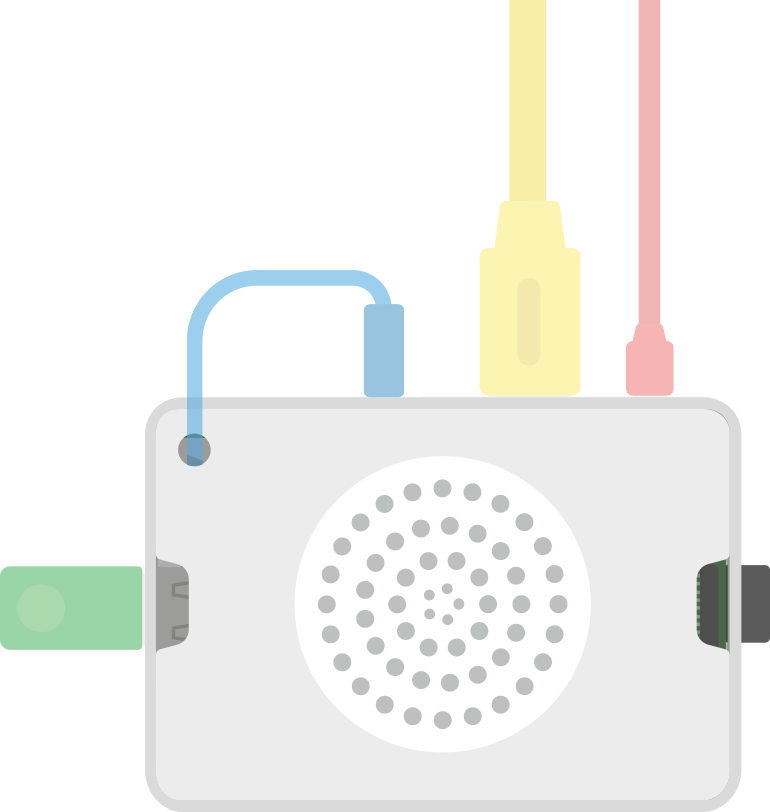
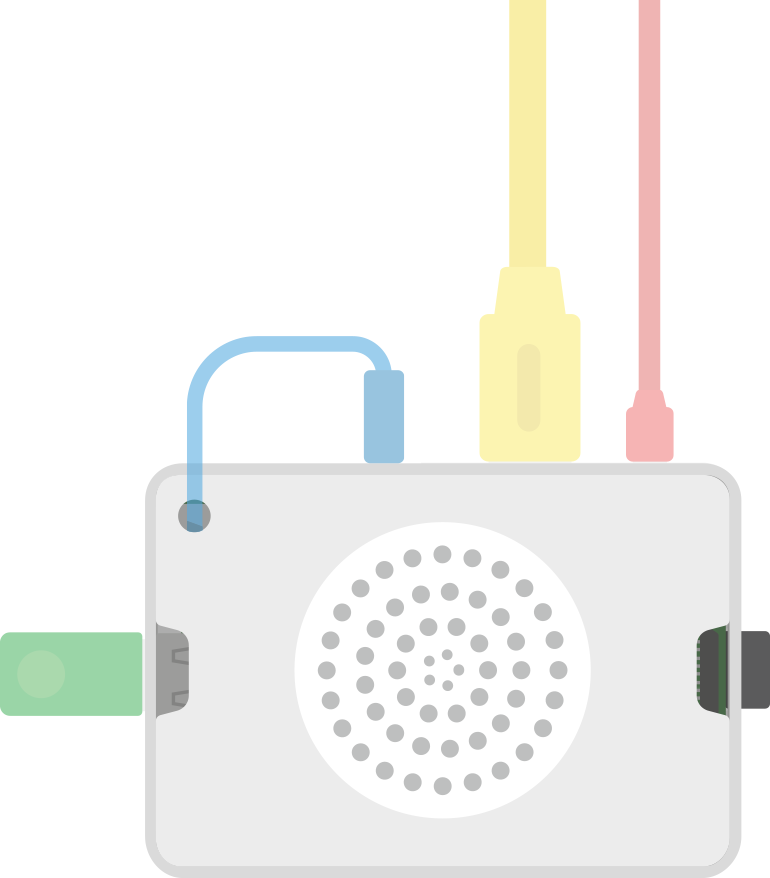
Making sure the pi-keyboard asset lines up with the edge

diff --git a/kano_init_flow/stages/pi_keyboard/main.py b/kano_init_flow/stages/pi_keyboard/main.py
@@ -48,8 +48,8 @@ class PiKeyboard(Stage):
 
         scene.add_widget(
             Gtk.Image.new_from_file(self.media_path('pi-keyboard.png')),
-            Placement(0.67, 0.33),
-            Placement(0.55, 0.33)
+            Placement(0.67, 0),
+            Placement(0.55, 0)
         )
 
         scene.add_arrow(
